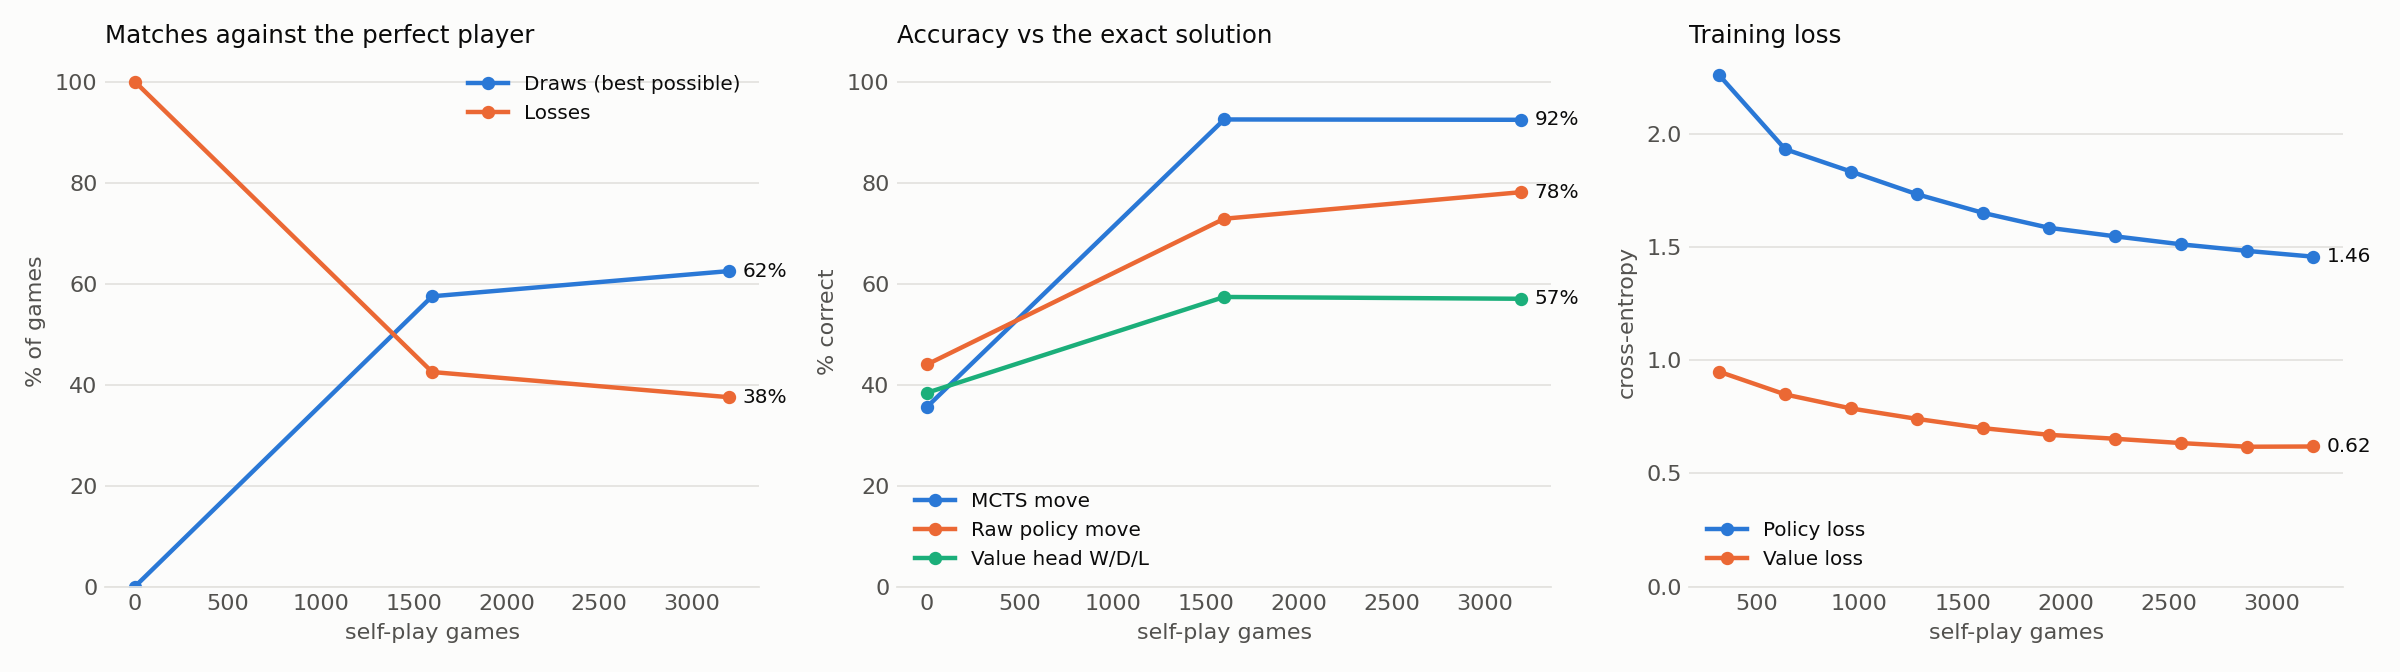
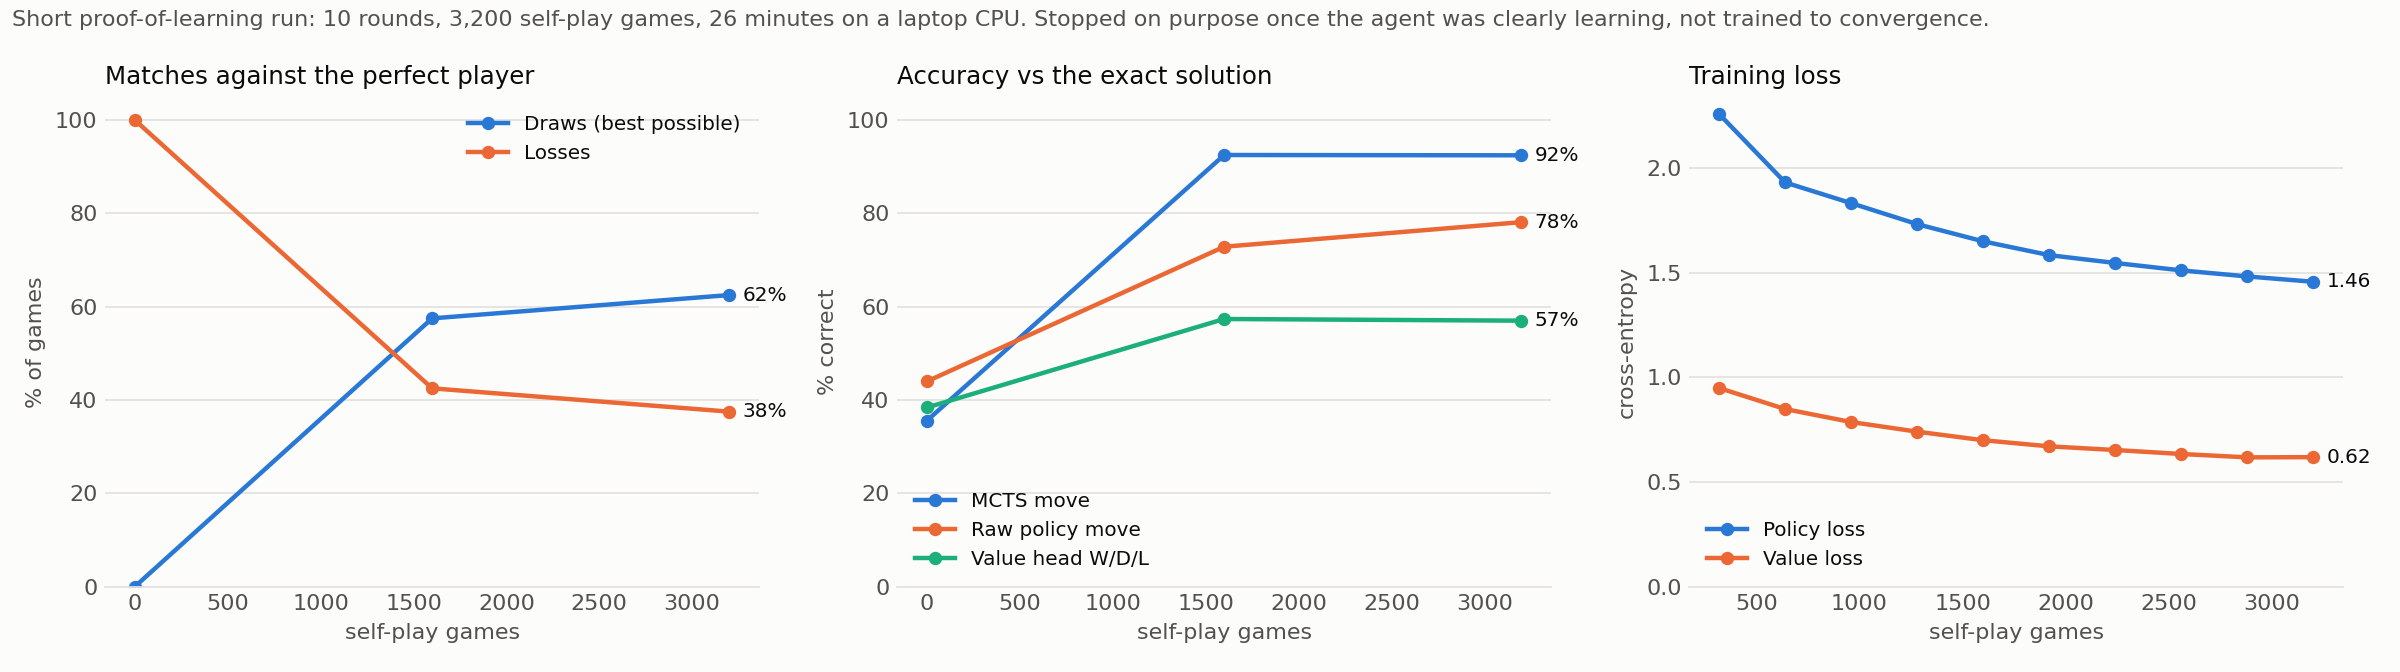
README and training figure: present the run as a short proof-of-learning run

diff --git a/plot_training.py b/plot_training.py
@@ -37,6 +37,7 @@ def main():
     ap = argparse.ArgumentParser()
     ap.add_argument("log")
     ap.add_argument("--baseline", help="JSON eval record of the untrained network")
+    ap.add_argument("--subtitle", default="", help="note printed above the panels")
     ap.add_argument("--out", default="docs/training_curves.png")
     args = ap.parse_args()
     rows = [json.loads(l) for l in open(args.log)]
@@ -71,7 +72,11 @@ def main():
     for ax, loc in zip(axes, ["upper right", "lower left", "lower left"]):
         ax.set_xlabel("self-play games", color=TEXT_MUTED)
         ax.legend(frameon=False, fontsize=9, labelcolor=TEXT, loc=loc)
-    fig.tight_layout()
+    if args.subtitle:
+        fig.text(0.005, 0.985, args.subtitle, ha="left", va="top", fontsize=10, color=TEXT_MUTED)
+        fig.tight_layout(rect=(0, 0, 1, 0.94))
+    else:
+        fig.tight_layout()
     fig.savefig(args.out, dpi=160, facecolor=SURFACE)
 
 

diff --git a/README.md b/README.md
@@ -21,6 +21,13 @@ The starting position is a theoretical draw, so a draw is the best possible resu
 perfect player. The current agent plays a losing move only 0.6% of the time in those matches. Each
 one costs the game, because the perfect player never lets a mistake go.
 
+This was a deliberately short run: 10 rounds of 320 self-play games, enough to show that the fixed
+pipeline learns, then stopped. The curves are still moving when it ends: the policy loss is still
+falling, and draws against the perfect player and raw-policy accuracy are still rising. Search
+accuracy reached 92% early, and the value head (57% correct) is the clearest place left to improve.
+With an exact solution already known, training to convergence would only confirm a number the
+solver gives directly.
+
 ## The game
 
 Sugar is played on a 3x3 board. Each player starts with 6 pieces stacked two high on their back row.
